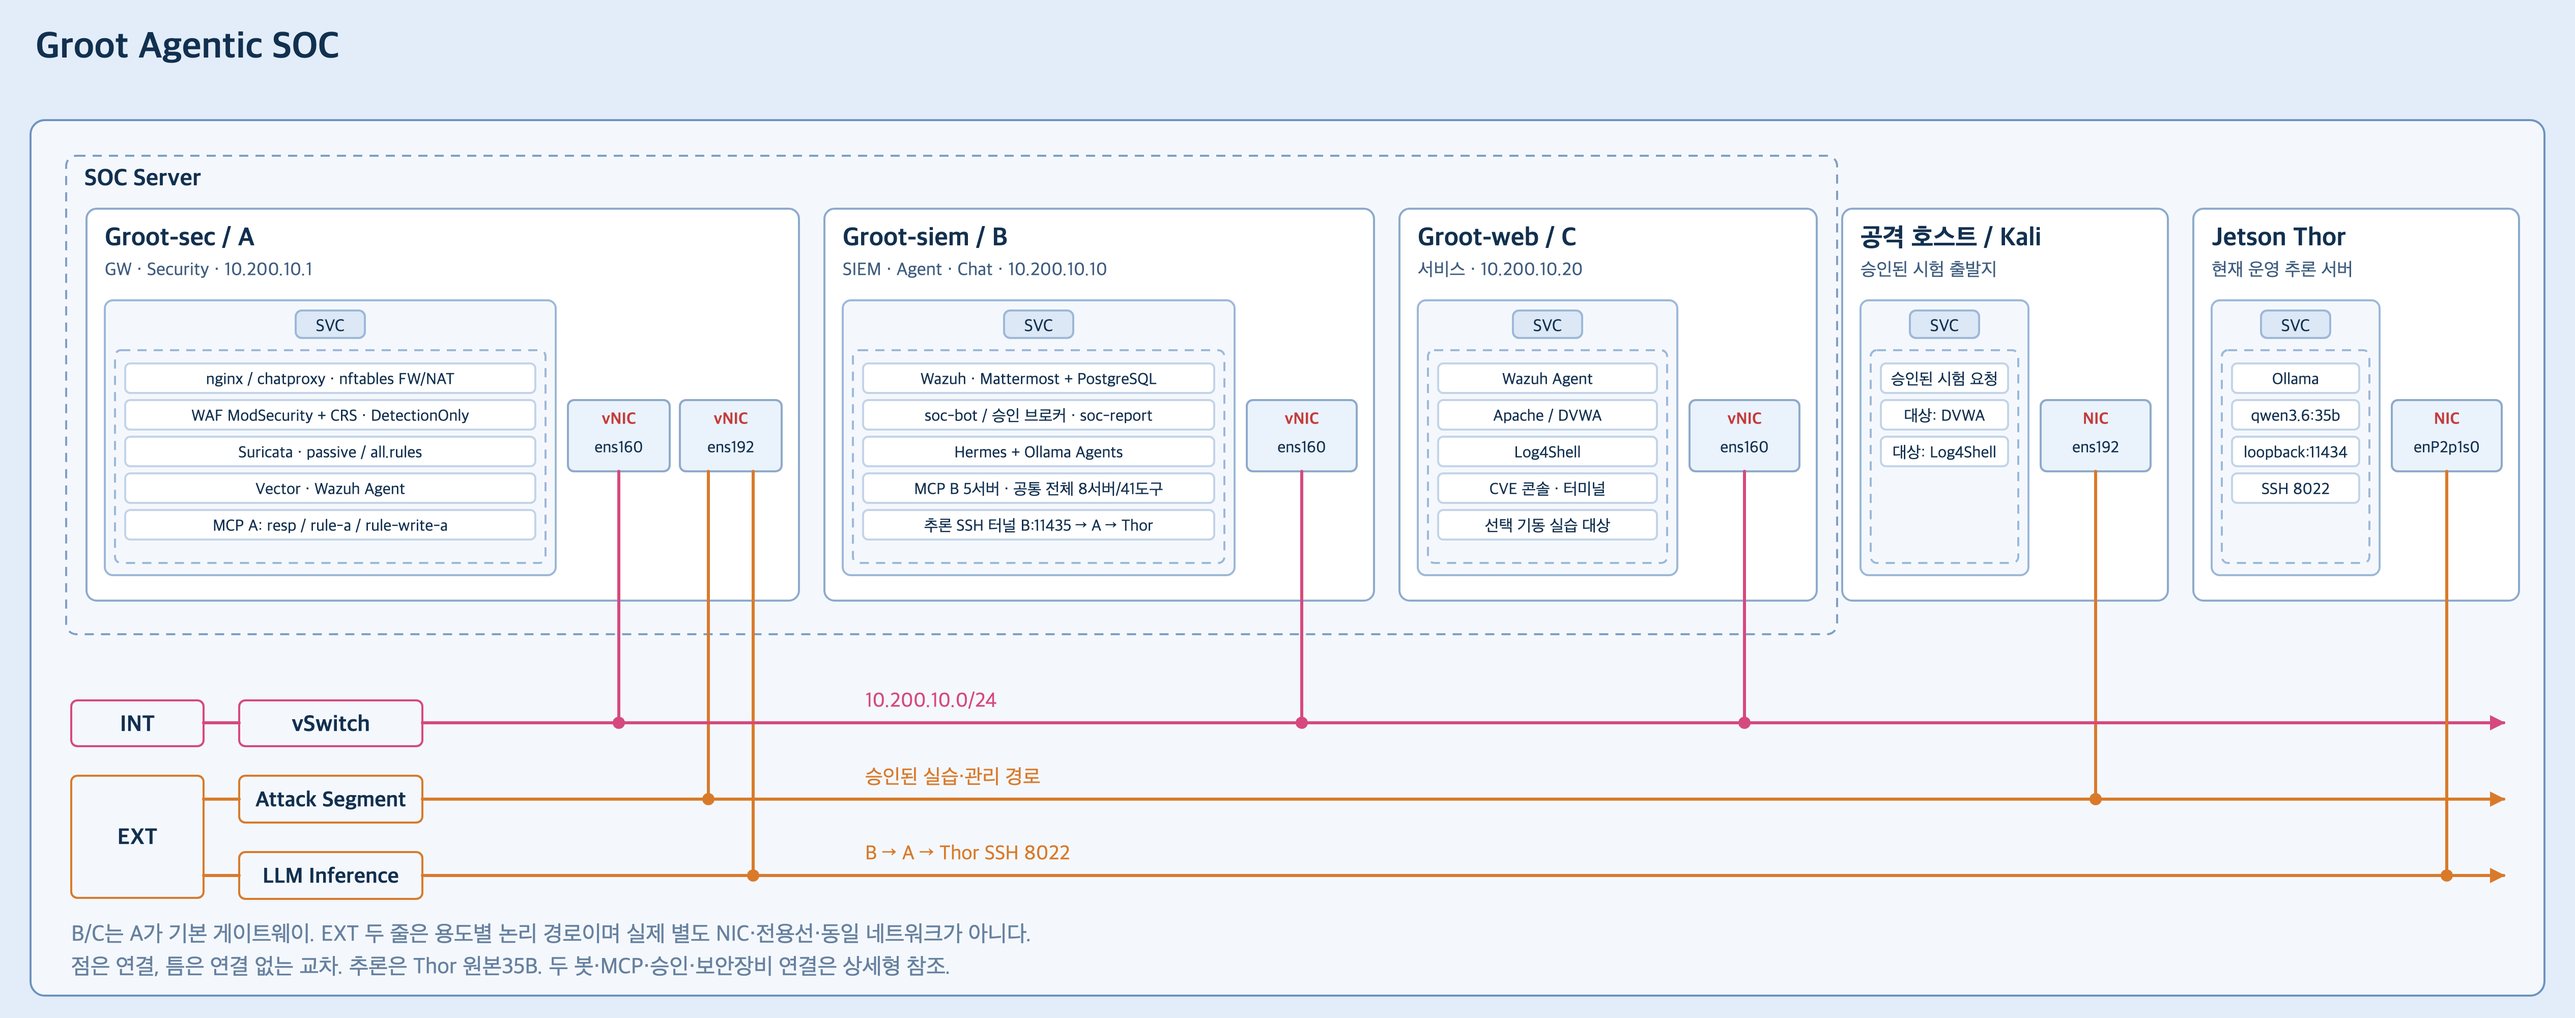
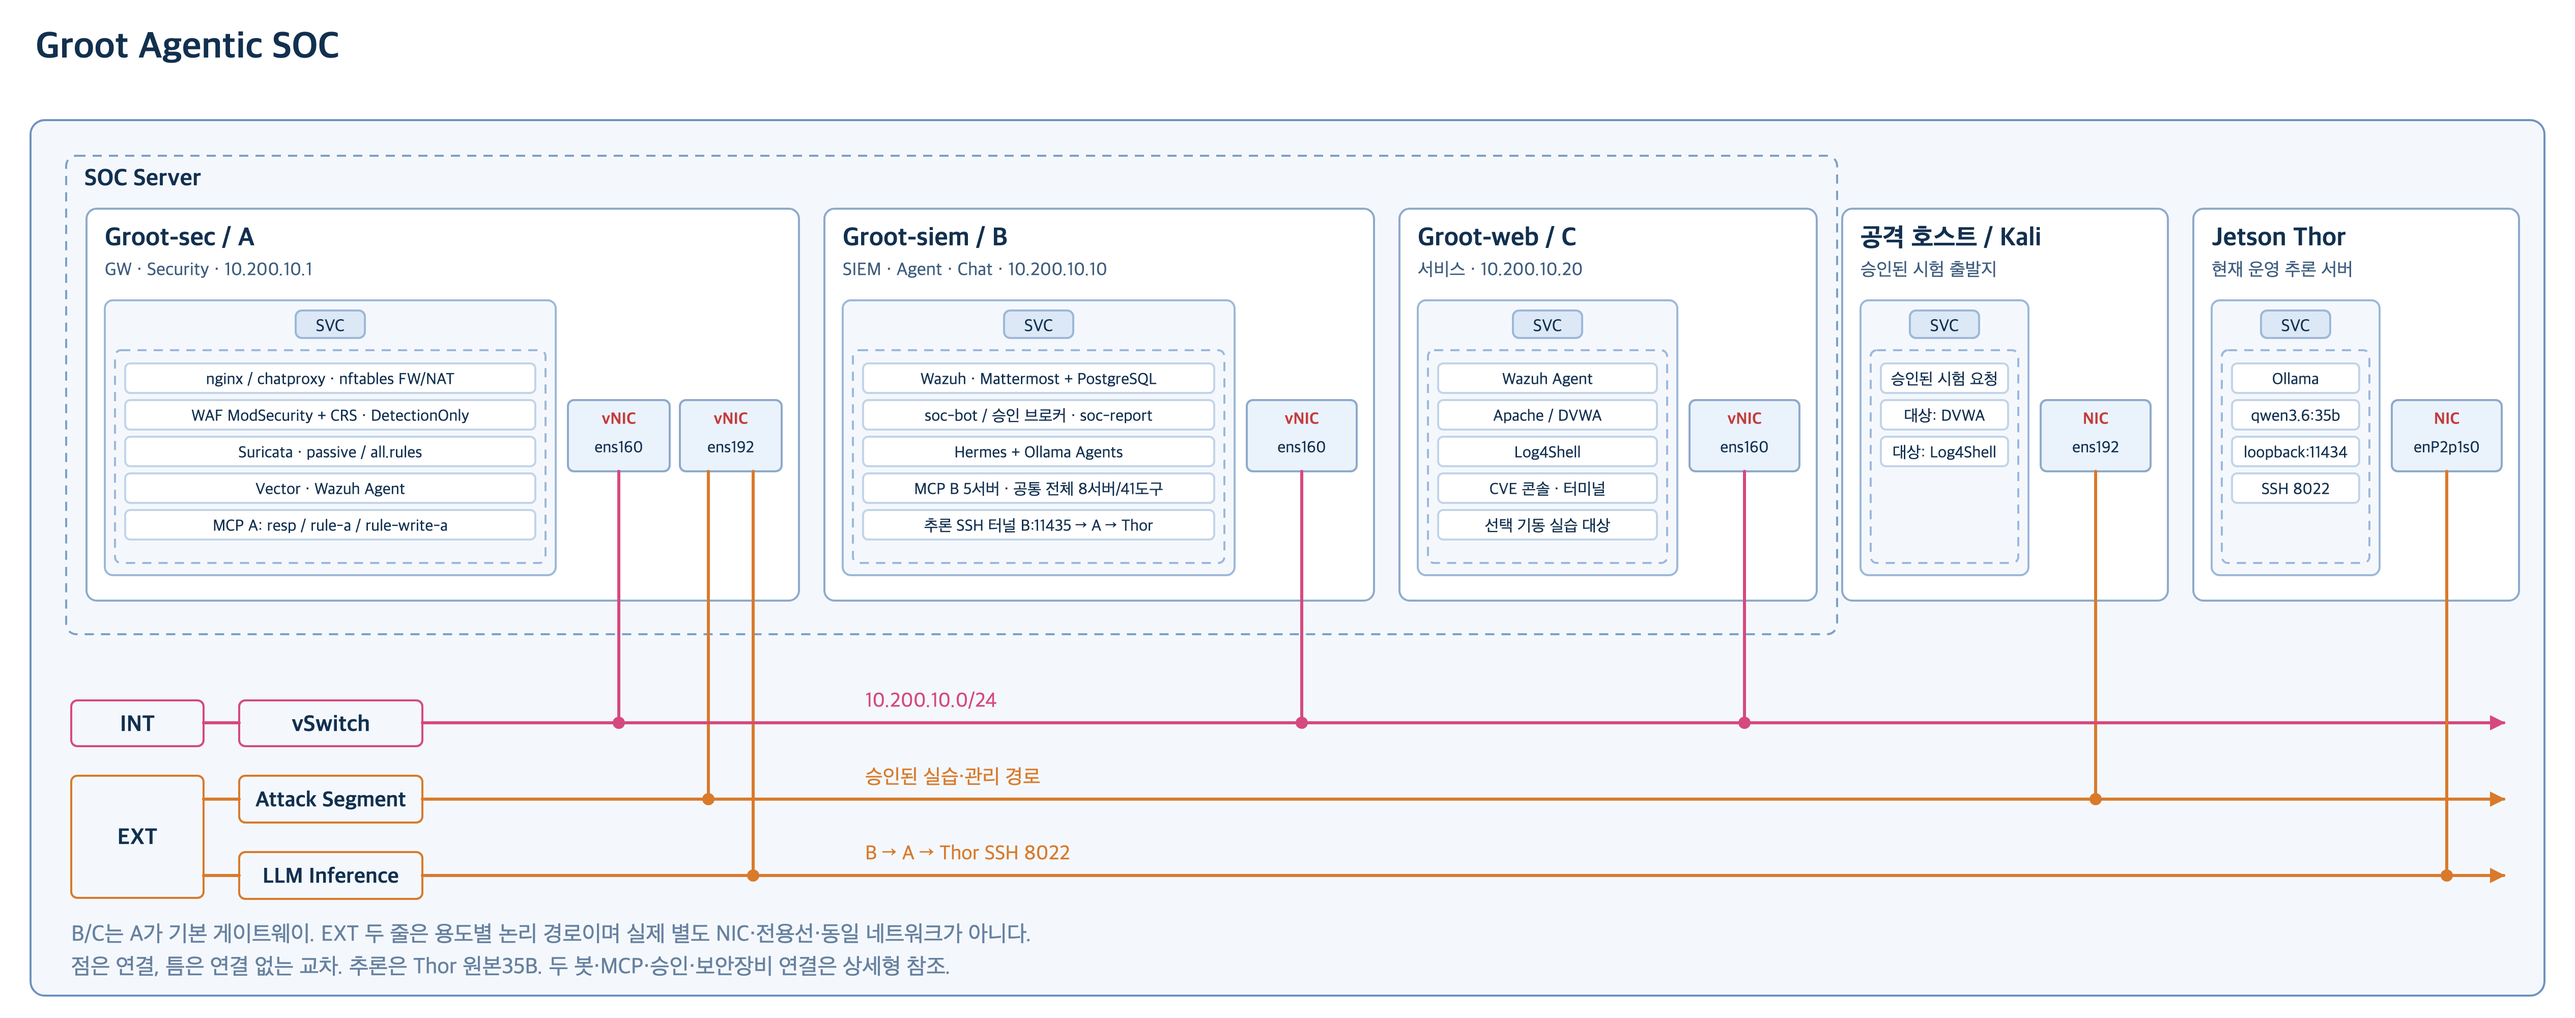
topology: white background and gray vSwitch for poster diagrams
Switch the light theme page color to white for both poster diagrams and
render the detail diagram's central vSwitch bar in neutral gray.
Regenerate 토폴로지_상세_1 and 토폴로지_버스_1 SVG/PNG at 2x.

Changed region(s): [[0.0, 0.0, 1.0, 1.0]]

diff --git a/topology/render_poster_1.py b/topology/render_poster_1.py
@@ -3,7 +3,7 @@
 
 원본 render_current.py / 토폴로지_상세·버스.svg 는 그대로 두고, 이 스크립트는
 '_1' 접미사가 붙은 포스터 전용 버전만 생성한다. 표준 라이브러리만 사용.
-두 도식 모두 라이트 블루 테마(배경 sRGB 0.886/0.931/0.977 ≈ #E2EDF9). 다크 팔레트(DARK)는 보존.
+두 도식 모두 라이트 테마(흰 배경, 상세형 vSwitch 회색). 다크 팔레트(DARK)는 보존.
 
 적용한 변경:
   - 밝은 하늘색 배경에 맞춰 패널·카드·텍스트·의미색을 명도 반전/채도 조정(이전 다크 네이비 테마 대체).
@@ -41,7 +41,7 @@ MUTED = "#7f9cc0"         # 흐린 캡션
 DARK = {"colors": COLORS, "page": PAGE, "card": CARD, "card_border": CARD_BORDER,
         "text": TEXT, "subtext": SUBTEXT}
 
-# 상세형 라이트 테마: 배경 sRGB(0.886, 0.931, 0.977) → 8bit #E2EDF9(채널 오차 ≤0.002).
+# 라이트 테마: 흰 배경(이전 하늘색 #E2EDF9에서 변경). vSwitch는 중립 회색.
 # 밝은 배경 위 대비를 위해 의미색은 같은 색상 계열에서 명도를 낮추고,
 # 박스는 흰색/연한 틴트 + 의미색 테두리, 제목은 진한 같은 계열색으로 바꾼다.
 LIGHT_COLORS = {
@@ -50,7 +50,7 @@ LIGHT_COLORS = {
     "internal": "#d6497f", "external": "#d97a2b",
 }
 L = {
-    "page": "#e2edf9",        # 바탕 (요청값)
+    "page": "#ffffff",        # 바탕 흰색
     "panel": "#f4f8fd",       # SOC Server 큰 패널
     "panel_border": "#6f93bf",
     "panel2": "#f7fafe",      # 범례·운영 흐름·EXT 서브 패널
@@ -65,7 +65,7 @@ L = {
     "mcp_fill": "#fdf3de", "mcp_title": "#955e00",
     "ok_fill": "#e9f6ec", "ok_border": "#4fa65f", "ok_title": "#2b7a3c",
     "a_fill": "#fbf1ec", "a_border": "#c96a4a", "a_title": "#a3452a", "a_sub": "#93604c",
-    "vs_fill": "#c9dcf1", "vs_border": "#5b85b3",
+    "vs_fill": "#e3e5e8", "vs_border": "#8c939c",
     "b_fill": "#e7f5f1", "b_border": "#3aa58c", "b_title": "#1d7661",
     "c_fill": "#fbebf2", "c_border": "#c05a84", "c_title": "#983962",
 }
